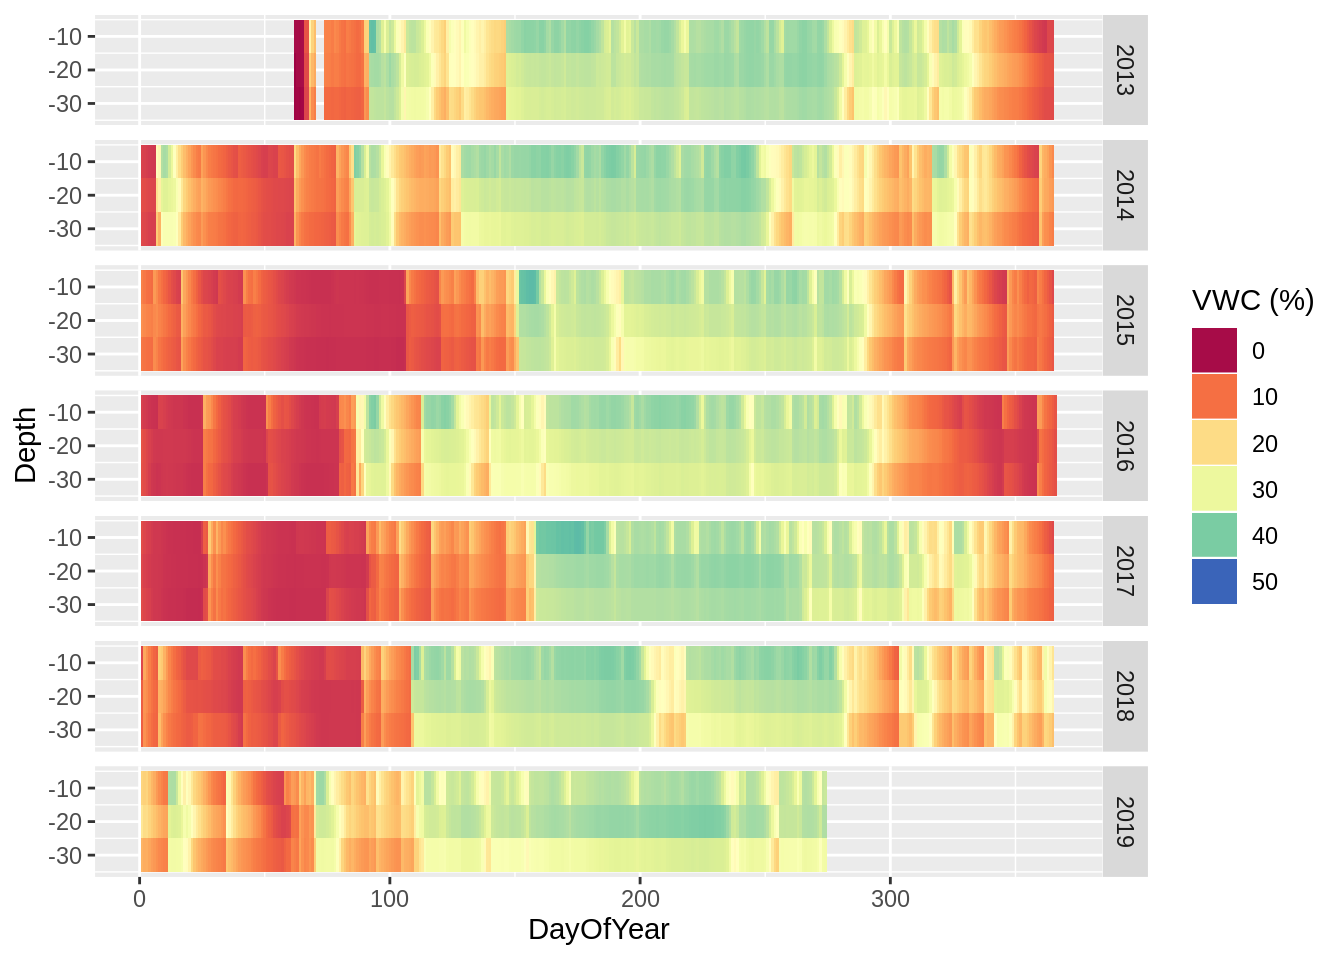
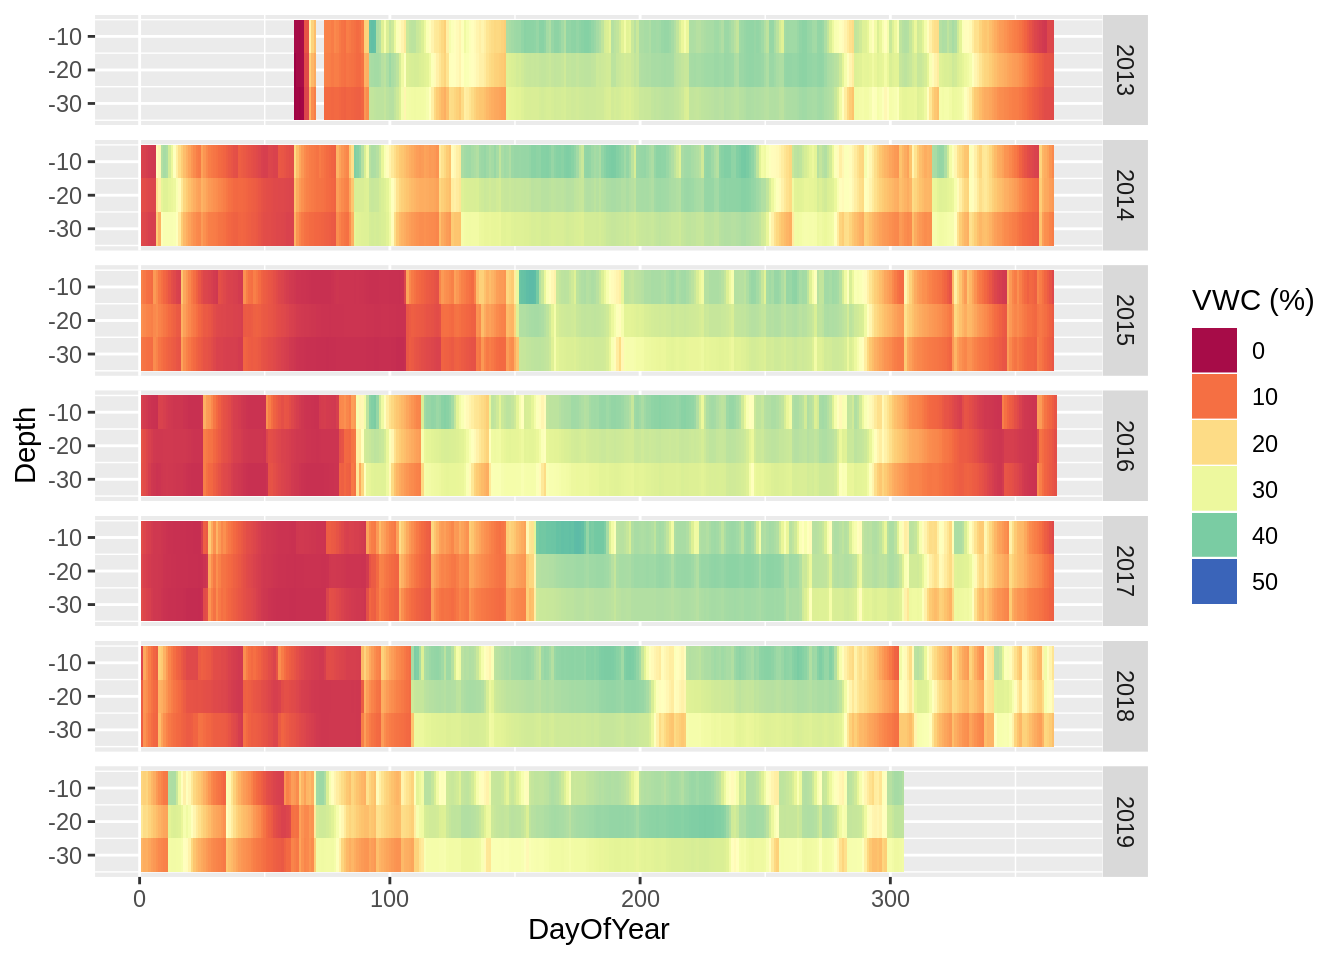
Add October's rainfall - need to add streamflow

Changed region(s): [[0.5938, 0.7812, 0.6875, 0.9062]]

diff --git a/post/2017-04-01-langrivier/index.html b/post/2017-04-01-langrivier/index.html
@@ -13,7 +13,7 @@
         "articleSection" : "post",
         "name" : "Drought Monitor for the Jonkershoek Valley, Western Cape, South Africa",
         "headline" : "Drought Monitor for the Jonkershoek Valley, Western Cape, South Africa",
-        "description" : "\n\n\n\x3cp\x3e\x3cimg src=\x22\/img\/SAEON_DST.png\x22 width=\x22600px\x22 \/\x3e\x3c\/p\x3e\n\x3cp\x3e\x3cbr\x3e\x3c\/p\x3e\n\x3cp\x3e\x3cem\x3eThis analysis was prepared by the \x3ca href=\x22http:\/\/www.saeon-fynbos.org\x22\x3e\x3cstrong\x3eFynbos Node\x3c\/strong\x3e\x3c\/a\x3e of \x3ca href=\x22http:\/\/www.saeon.ac.za\x22\x3ethe \x3cstrong\x3eSouth African Environmental Observation Network (SAEON)\x3c\/strong\x3e\x3c\/a\x3e.\x3c\/em\x3e\x3c\/p\x3e\n\x3cp\x3eHere we present the record of stream flow rates for the Langrivier catchment and rainfall from the Dwarsberg weather station in the Jonkershoek Valley for the period January 1961 to the end of September 2019. The Dwarsberg weather station is at 1214 metres above sea level on the boundary of the catchments of the Eerste, Berg and Sonderend rivers and is a good indicator of rainfall feeding the Berg and Theewaterskloof dams.\x3c\/p\x3e\n",
+        "description" : "\n\n\n\x3cp\x3e\x3cimg src=\x22\/img\/SAEON_DST.png\x22 width=\x22600px\x22 \/\x3e\x3c\/p\x3e\n\x3cp\x3e\x3cbr\x3e\x3c\/p\x3e\n\x3cp\x3e\x3cem\x3eThis analysis was prepared by the \x3ca href=\x22http:\/\/www.saeon-fynbos.org\x22\x3e\x3cstrong\x3eFynbos Node\x3c\/strong\x3e\x3c\/a\x3e of \x3ca href=\x22http:\/\/www.saeon.ac.za\x22\x3ethe \x3cstrong\x3eSouth African Environmental Observation Network (SAEON)\x3c\/strong\x3e\x3c\/a\x3e.\x3c\/em\x3e\x3c\/p\x3e\n\x3cp\x3eHere we present the record of stream flow rates for the Langrivier catchment and rainfall from the Dwarsberg weather station in the Jonkershoek Valley for the period January 1961 to the end of October 2019. The Dwarsberg weather station is at 1214 metres above sea level on the boundary of the catchments of the Eerste, Berg and Sonderend rivers and is a good indicator of rainfall feeding the Berg and Theewaterskloof dams.\x3c\/p\x3e\n",
         "inLanguage" : "en",
         "author" : "",
         "creator" : "",
@@ -21,8 +21,8 @@
         "accountablePerson" : "",
         "copyrightHolder" : "",
         "copyrightYear" : "2019",
-        "datePublished": "2019-10-01 00:00:00 \x2b0000 UTC",
-        "dateModified" : "2019-10-01 00:00:00 \x2b0000 UTC",
+        "datePublished": "2019-11-01 00:00:00 \x2b0000 UTC",
+        "dateModified" : "2019-11-01 00:00:00 \x2b0000 UTC",
         "url" : "\/post\/2017-04-01-langrivier\/",
         "wordCount" : "921",
         "image" : "//img/jonkershoek2.jpg"",
@@ -234,7 +234,7 @@ if (!doNotTrack) {
       
         <div class="entry-meta">
           
-    <span class="date">01 October 2019</span>	<span> / </span>
+    <span class="date">01 November 2019</span>	<span> / </span>
           
 
           <span class="author">

diff --git a/categories/interest/index.html b/categories/interest/index.html
@@ -21,8 +21,8 @@
         "accountablePerson" : "",
         "copyrightHolder" : "",
         "copyrightYear" : "2019",
-        "datePublished": "2019-10-01 00:00:00 \x2b0000 UTC",
-        "dateModified" : "2019-10-01 00:00:00 \x2b0000 UTC",
+        "datePublished": "2019-11-01 00:00:00 \x2b0000 UTC",
+        "dateModified" : "2019-11-01 00:00:00 \x2b0000 UTC",
         "url" : "\/categories\/interest\/",
         "wordCount" : "0",
         "image" : "/%!s(\u003cnil\u003e)"",
@@ -254,7 +254,7 @@ if (!doNotTrack) {
 
 				<div class="excerpt-container">
 					<div class="excerpt-meta">
-						<span class="date">01 October</span>
+						<span class="date">01 November</span>
 
 
 
@@ -293,7 +293,7 @@ if (!doNotTrack) {
 <p><img src="/img/SAEON_DST.png" width="600px" /></p>
 <p><br></p>
 <p><em>This analysis was prepared by the <a href="http://www.saeon-fynbos.org"><strong>Fynbos Node</strong></a> of <a href="http://www.saeon.ac.za">the <strong>South African Environmental Observation Network (SAEON)</strong></a>.</em></p>
-<p>Here we present the record of stream flow rates for the Langrivier catchment and rainfall from the Dwarsberg weather station in the Jonkershoek Valley for the period January 1961 to the end of September 2019. The Dwarsberg weather station is at 1214 metres above sea level on the boundary of the catchments of the Eerste, Berg and Sonderend rivers and is a good indicator of rainfall feeding the Berg and Theewaterskloof dams.</p>
+<p>Here we present the record of stream flow rates for the Langrivier catchment and rainfall from the Dwarsberg weather station in the Jonkershoek Valley for the period January 1961 to the end of October 2019. The Dwarsberg weather station is at 1214 metres above sea level on the boundary of the catchments of the Eerste, Berg and Sonderend rivers and is a good indicator of rainfall feeding the Berg and Theewaterskloof dams.</p>
 
 
 									<div class="more-link-wrapper"><a class="more-link" href="/post/2017-04-01-langrivier/">Read the post<span class="screen-reader-text">This is a Standard Post</span></a></div>

diff --git a/categories/research/index.html b/categories/research/index.html
@@ -21,8 +21,8 @@
         "accountablePerson" : "",
         "copyrightHolder" : "",
         "copyrightYear" : "2019",
-        "datePublished": "2019-10-01 00:00:00 \x2b0000 UTC",
-        "dateModified" : "2019-10-01 00:00:00 \x2b0000 UTC",
+        "datePublished": "2019-11-01 00:00:00 \x2b0000 UTC",
+        "dateModified" : "2019-11-01 00:00:00 \x2b0000 UTC",
         "url" : "\/categories\/research\/",
         "wordCount" : "0",
         "image" : "/%!s(\u003cnil\u003e)"",
@@ -254,7 +254,7 @@ if (!doNotTrack) {
 
 				<div class="excerpt-container">
 					<div class="excerpt-meta">
-						<span class="date">01 October</span>
+						<span class="date">01 November</span>
 
 
 
@@ -293,7 +293,7 @@ if (!doNotTrack) {
 <p><img src="/img/SAEON_DST.png" width="600px" /></p>
 <p><br></p>
 <p><em>This analysis was prepared by the <a href="http://www.saeon-fynbos.org"><strong>Fynbos Node</strong></a> of <a href="http://www.saeon.ac.za">the <strong>South African Environmental Observation Network (SAEON)</strong></a>.</em></p>
-<p>Here we present the record of stream flow rates for the Langrivier catchment and rainfall from the Dwarsberg weather station in the Jonkershoek Valley for the period January 1961 to the end of September 2019. The Dwarsberg weather station is at 1214 metres above sea level on the boundary of the catchments of the Eerste, Berg and Sonderend rivers and is a good indicator of rainfall feeding the Berg and Theewaterskloof dams.</p>
+<p>Here we present the record of stream flow rates for the Langrivier catchment and rainfall from the Dwarsberg weather station in the Jonkershoek Valley for the period January 1961 to the end of October 2019. The Dwarsberg weather station is at 1214 metres above sea level on the boundary of the catchments of the Eerste, Berg and Sonderend rivers and is a good indicator of rainfall feeding the Berg and Theewaterskloof dams.</p>
 
 
 									<div class="more-link-wrapper"><a class="more-link" href="/post/2017-04-01-langrivier/">Read the post<span class="screen-reader-text">This is a Standard Post</span></a></div>

diff --git a/index.html b/index.html
@@ -22,8 +22,8 @@
         "accountablePerson" : "",
         "copyrightHolder" : "",
         "copyrightYear" : "2019",
-        "datePublished": "2019-10-01 00:00:00 \x2b0000 UTC",
-        "dateModified" : "2019-10-01 00:00:00 \x2b0000 UTC",
+        "datePublished": "2019-11-01 00:00:00 \x2b0000 UTC",
+        "dateModified" : "2019-11-01 00:00:00 \x2b0000 UTC",
         "url" : "\/",
         "wordCount" : "0",
         "image" : "/%!s(\u003cnil\u003e)"",
@@ -245,7 +245,7 @@ if (!doNotTrack) {
 				
 				<div class="excerpt-container">
 					<div class="excerpt-meta">
-						<span class="date">01 October</span>	
+						<span class="date">01 November</span>	
 
 						
 							
@@ -283,7 +283,7 @@ if (!doNotTrack) {
 <p><img src="/img/SAEON_DST.png" width="600px" /></p>
 <p><br></p>
 <p><em>This analysis was prepared by the <a href="http://www.saeon-fynbos.org"><strong>Fynbos Node</strong></a> of <a href="http://www.saeon.ac.za">the <strong>South African Environmental Observation Network (SAEON)</strong></a>.</em></p>
-<p>Here we present the record of stream flow rates for the Langrivier catchment and rainfall from the Dwarsberg weather station in the Jonkershoek Valley for the period January 1961 to the end of September 2019. The Dwarsberg weather station is at 1214 metres above sea level on the boundary of the catchments of the Eerste, Berg and Sonderend rivers and is a good indicator of rainfall feeding the Berg and Theewaterskloof dams.</p>
+<p>Here we present the record of stream flow rates for the Langrivier catchment and rainfall from the Dwarsberg weather station in the Jonkershoek Valley for the period January 1961 to the end of October 2019. The Dwarsberg weather station is at 1214 metres above sea level on the boundary of the catchments of the Eerste, Berg and Sonderend rivers and is a good indicator of rainfall feeding the Berg and Theewaterskloof dams.</p>
 
 
 							<div class="more-link-wrapper"><a class="more-link" href="/post/2017-04-01-langrivier/">Read the post<span class="screen-reader-text">This is a Standard Post</span></a></div>

diff --git a/page/2/index.html b/page/2/index.html
@@ -22,8 +22,8 @@
         "accountablePerson" : "",
         "copyrightHolder" : "",
         "copyrightYear" : "2019",
-        "datePublished": "2019-10-01 00:00:00 \x2b0000 UTC",
-        "dateModified" : "2019-10-01 00:00:00 \x2b0000 UTC",
+        "datePublished": "2019-11-01 00:00:00 \x2b0000 UTC",
+        "dateModified" : "2019-11-01 00:00:00 \x2b0000 UTC",
         "url" : "\/",
         "wordCount" : "0",
         "image" : "/%!s(\u003cnil\u003e)"",
